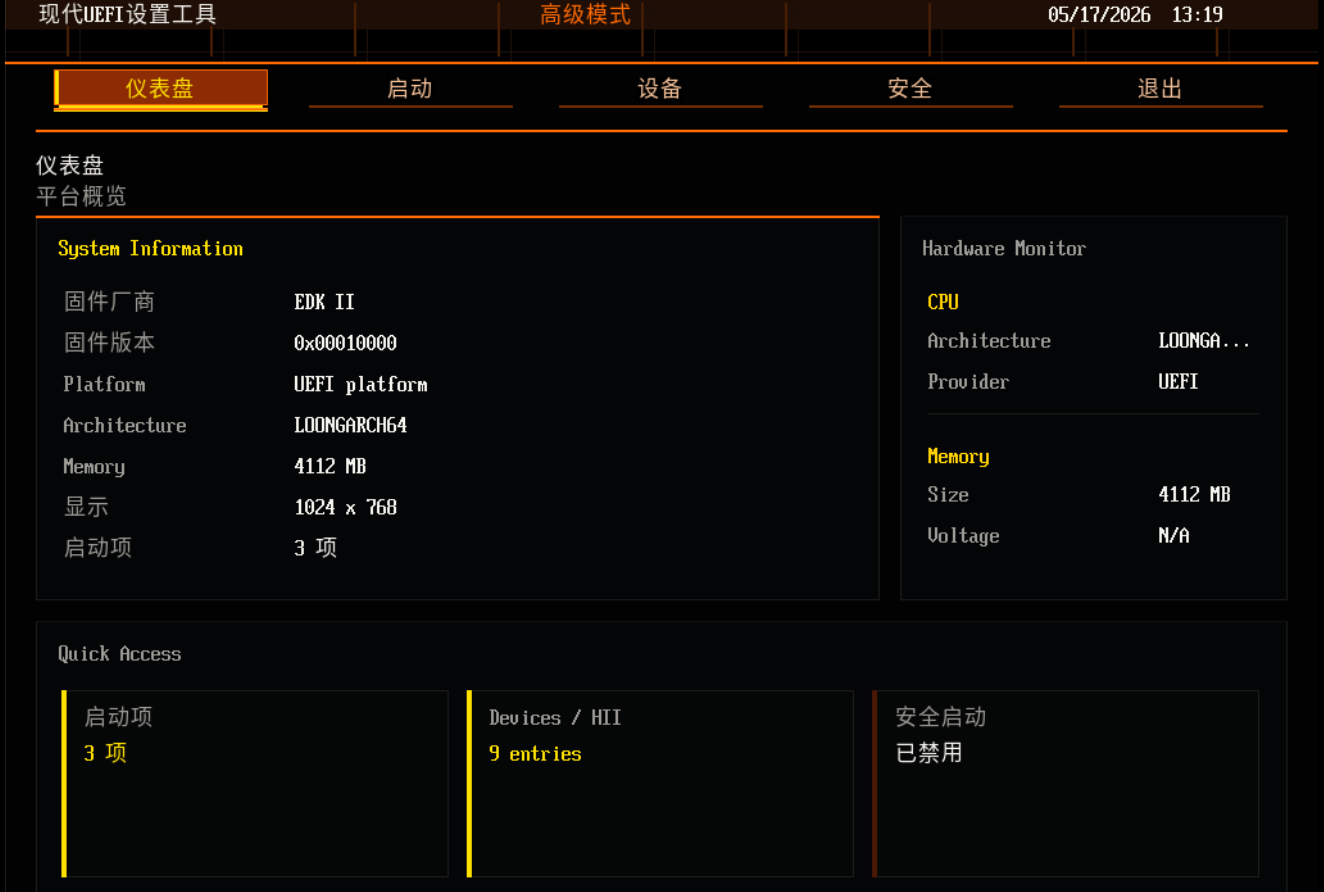
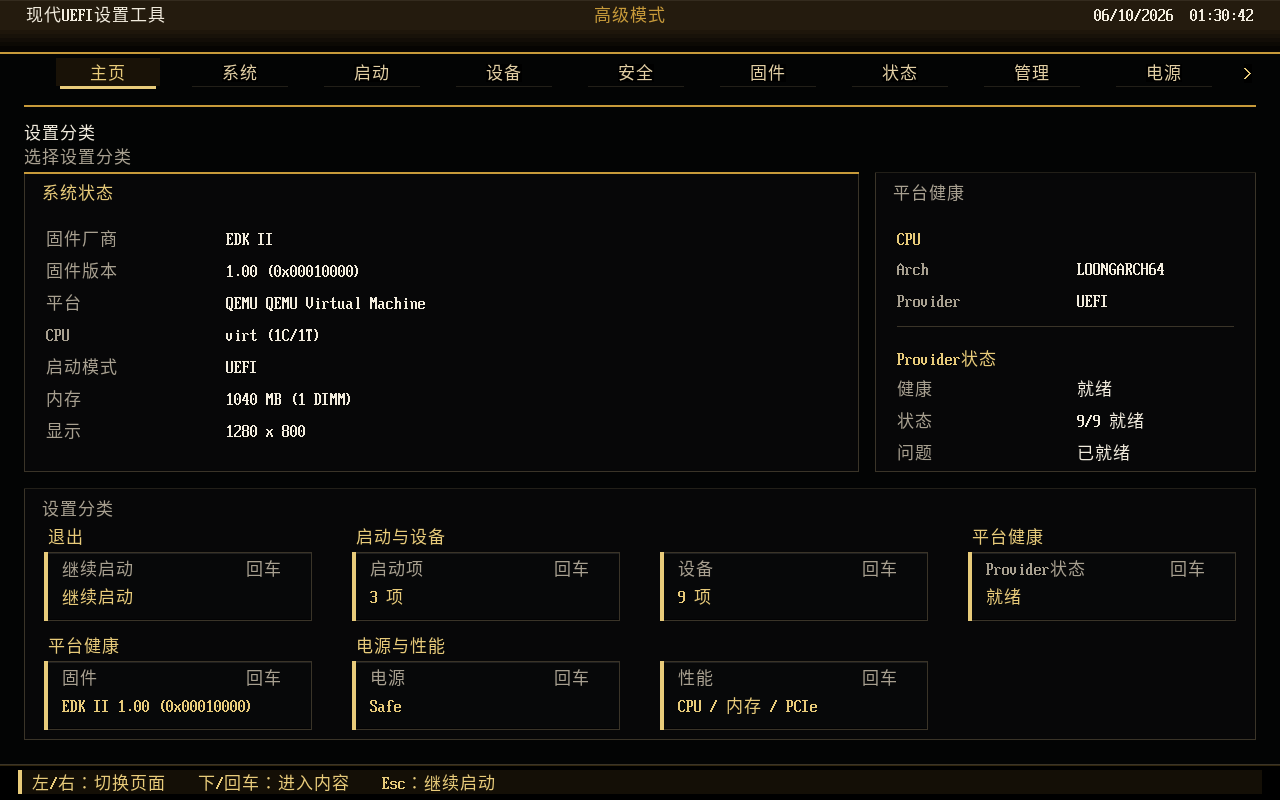
docs: refresh showcase screenshots across x64/LoongArch/AArch64
Re-capture the GitHub showcase to the current app and add two new shots:

- modern-ovmf-x64-dashboard-graphite-gold.png (hero) and modern-loongarch-dashboard.png
  re-captured -- now show the System nav tab, real SMBIOS platform/CPU/memory
  data, humanized firmware revision, and the platform-adaptive quick cards
  (server card hidden on client/VM -> 7 cards).
- modern-ovmf-x64-systeminfo.png (new) -- the dedicated System Information page.
- modern-aarch64-dashboard.png (new) -- ArmVirt AArch64 dashboard.

README gallery updated; the stale v0.4 ArmVirt app shots are dropped from the
gallery in favor of the AArch64 dashboard. All captures are 1280x800, app boots
from an ESP under QEMU. RISC-V capture pending (its edk2 DEBUG firmware asserts
in HardwareErrorSourceTableDxe before GOP).

diff --git a/README.md b/README.md
@@ -576,9 +576,11 @@ Screenshots for GitHub presentation belong under `Assets/Screenshots/`. Keep
 captures focused on ModernSetup itself, not vendor firmware screens or copied
 assets.
 
-Current OVMF X64 capture:
+Current OVMF X64 captures:
 
 ![ModernSetup OVMF X64 dashboard](Assets/Screenshots/modern-ovmf-x64-dashboard-graphite-gold.png)
+
+![ModernSetup OVMF X64 System Information page](Assets/Screenshots/modern-ovmf-x64-systeminfo.png)
 
 Current LoongArch captures:
 
@@ -586,11 +588,9 @@ Current LoongArch captures:
 
 ![ModernDisplayEngine LoongArch device page](Assets/Screenshots/modern-loongarch-displayengine-device.png)
 
-Current ArmVirt `ModernSetupApp` captures:
+Current ArmVirt AArch64 `ModernSetupApp` captures:
 
-![ModernSetupApp v0.4 dashboard](Assets/Screenshots/setup-v0.4-dashboard.png)
-
-![ModernSetupApp dashboard](Assets/Screenshots/modern-app-dashboard.png)
+![ModernSetup ArmVirt AArch64 dashboard](Assets/Screenshots/modern-aarch64-dashboard.png)
 
 ![ModernSetupApp English exit page](Assets/Screenshots/modern-app-en-exit.png)
 

diff --git a/CHANGELOG.md b/CHANGELOG.md
@@ -12,6 +12,16 @@ this file as both a release log and a lightweight development progress record.
 
 ## Unreleased
 
+### Changed
+
+- Refreshed the GitHub showcase screenshots (`Assets/Screenshots/`) to the current
+  app: the OVMF X64 dashboard hero and the LoongArch dashboard are re-captured
+  (now showing the System tab, real SMBIOS platform/CPU/memory data, and the
+  platform-adaptive quick cards), and new captures are added for the OVMF X64
+  System Information page (`modern-ovmf-x64-systeminfo.png`) and the ArmVirt
+  AArch64 dashboard (`modern-aarch64-dashboard.png`). README gallery updated to
+  match. RISC-V capture is pending (its edk2 DEBUG firmware asserts before GOP).
+
 ### Added
 
 - The System Information page now shows the deeper SMBIOS identity that does not
